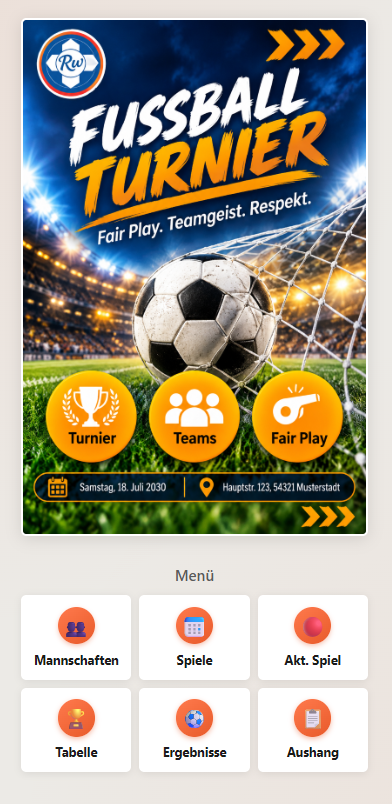
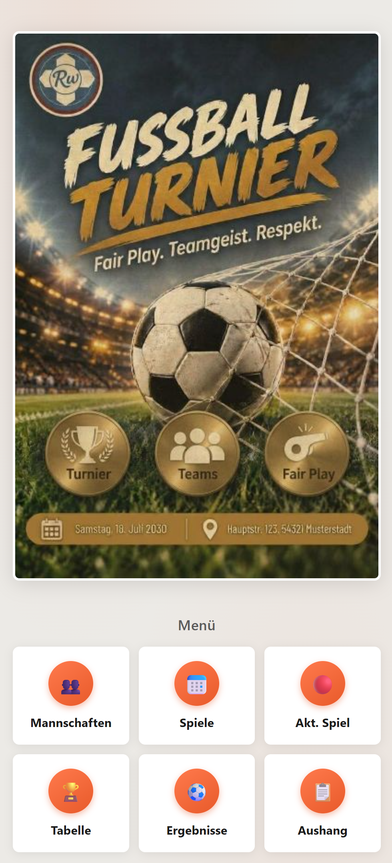
Ruhigeres Turnierposter, als JPEG statt PNG
Das grelle Motiv gegen die gedecktere Fassung getauscht. Gleiche Masse
(394x591), aber als JPEG nur noch 54 statt 457 KB - fuer ein Foto ist das
das passendere Format. Dateiname und Verweise entsprechend auf .jpg
gezogen, die alte PNG entfaellt.

Startseiten-Screenshot fuer README und Doku neu gerendert, damit er das
aktuelle Poster zeigt.

diff --git a/index.html b/index.html
@@ -16,7 +16,7 @@
     <div class="start-inner">
       <figure class="poster-frame">
         <img
-          src="assets/turnier-poster.png"
+          src="assets/turnier-poster.jpg"
           alt="Poster: Fussball Turnier – Fair Play. Teamgeist. Respekt."
           width="394"
           height="591"

diff --git a/FussballTurnierWeb_Doku.md b/FussballTurnierWeb_Doku.md
@@ -32,7 +32,7 @@ TabelleFTV/
 ├── index.html  mannschaften.html  spiele.html
 ├── aktspiel.html  tabelle.html  ergebnisse.html  aushang.html
 ├── assets/
-│   ├── turnier-poster.png      Poster der Startseite
+│   ├── turnier-poster.jpg      Poster der Startseite
 │   └── logorw96.png            Signatur im Aushang-Kopf
 ├── css/
 │   ├── global.css              Farbvariablen, Grundschrift, box-sizing
